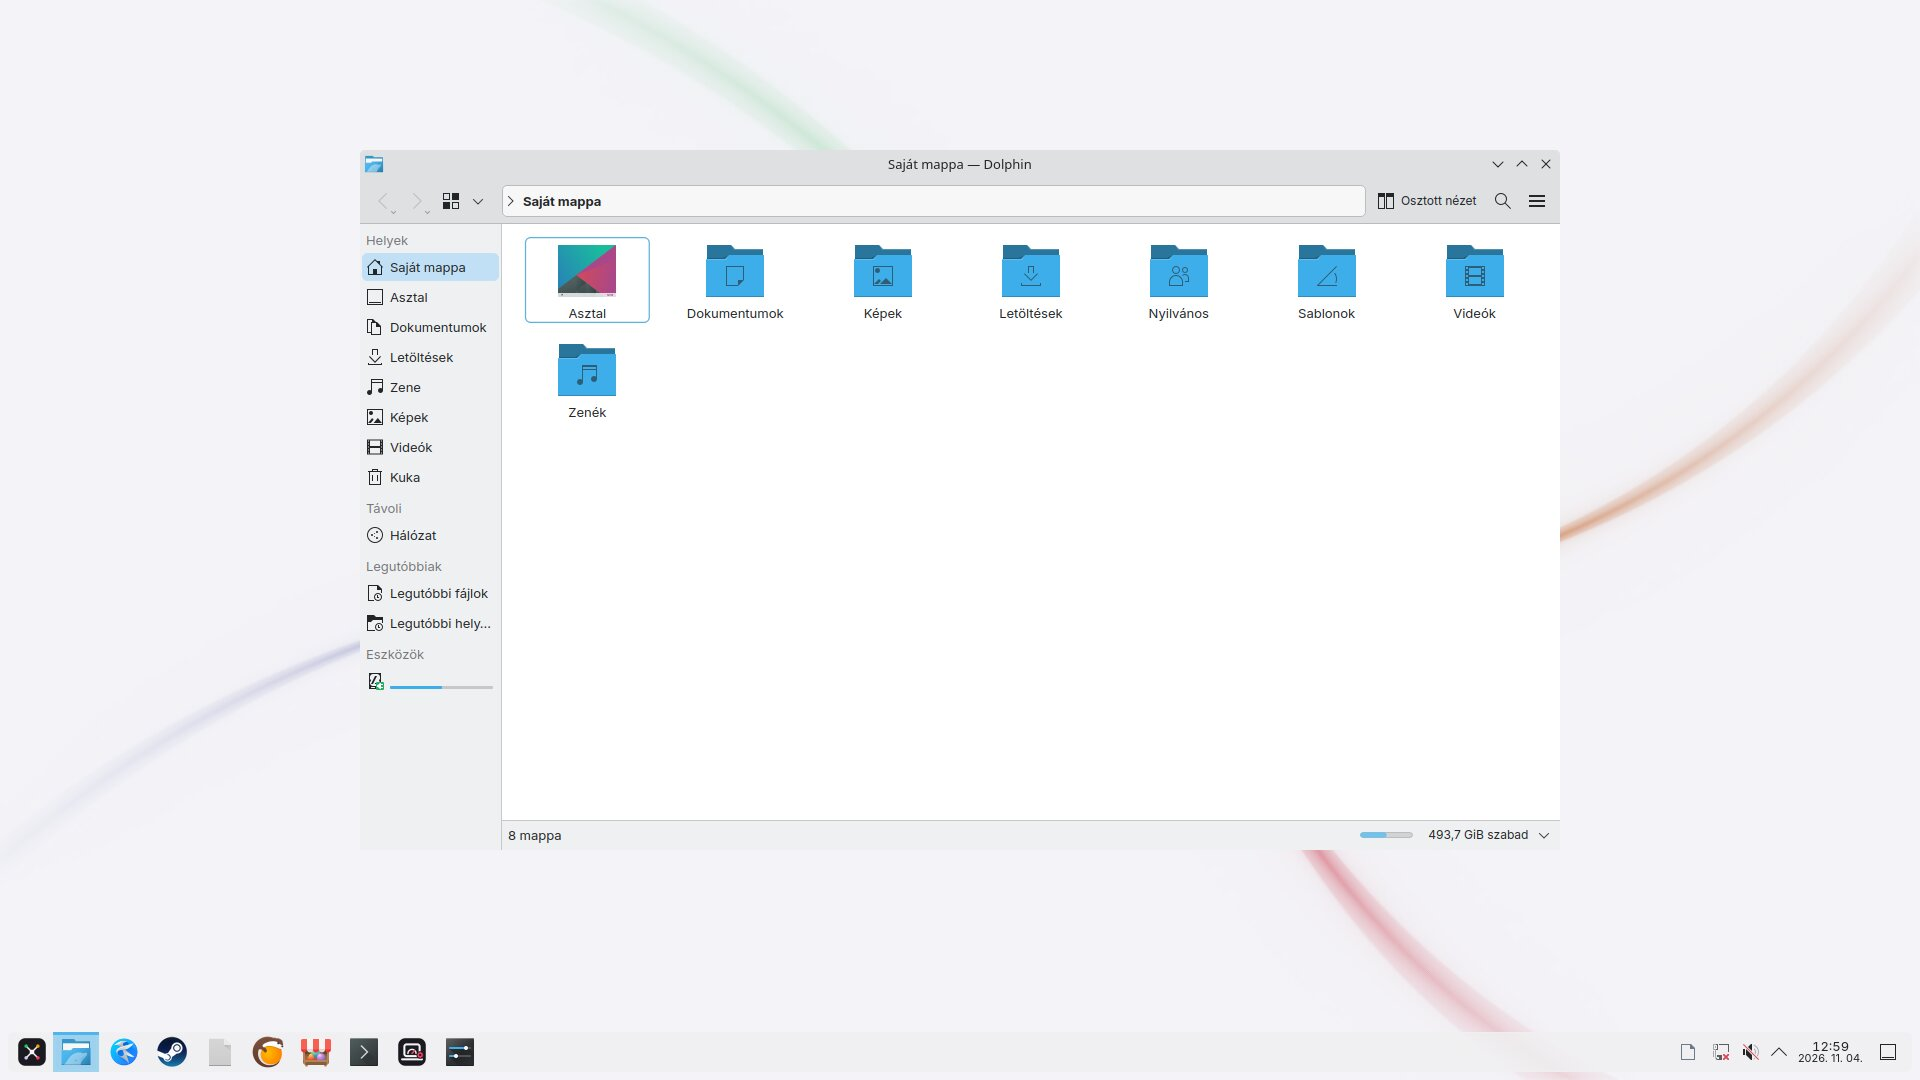
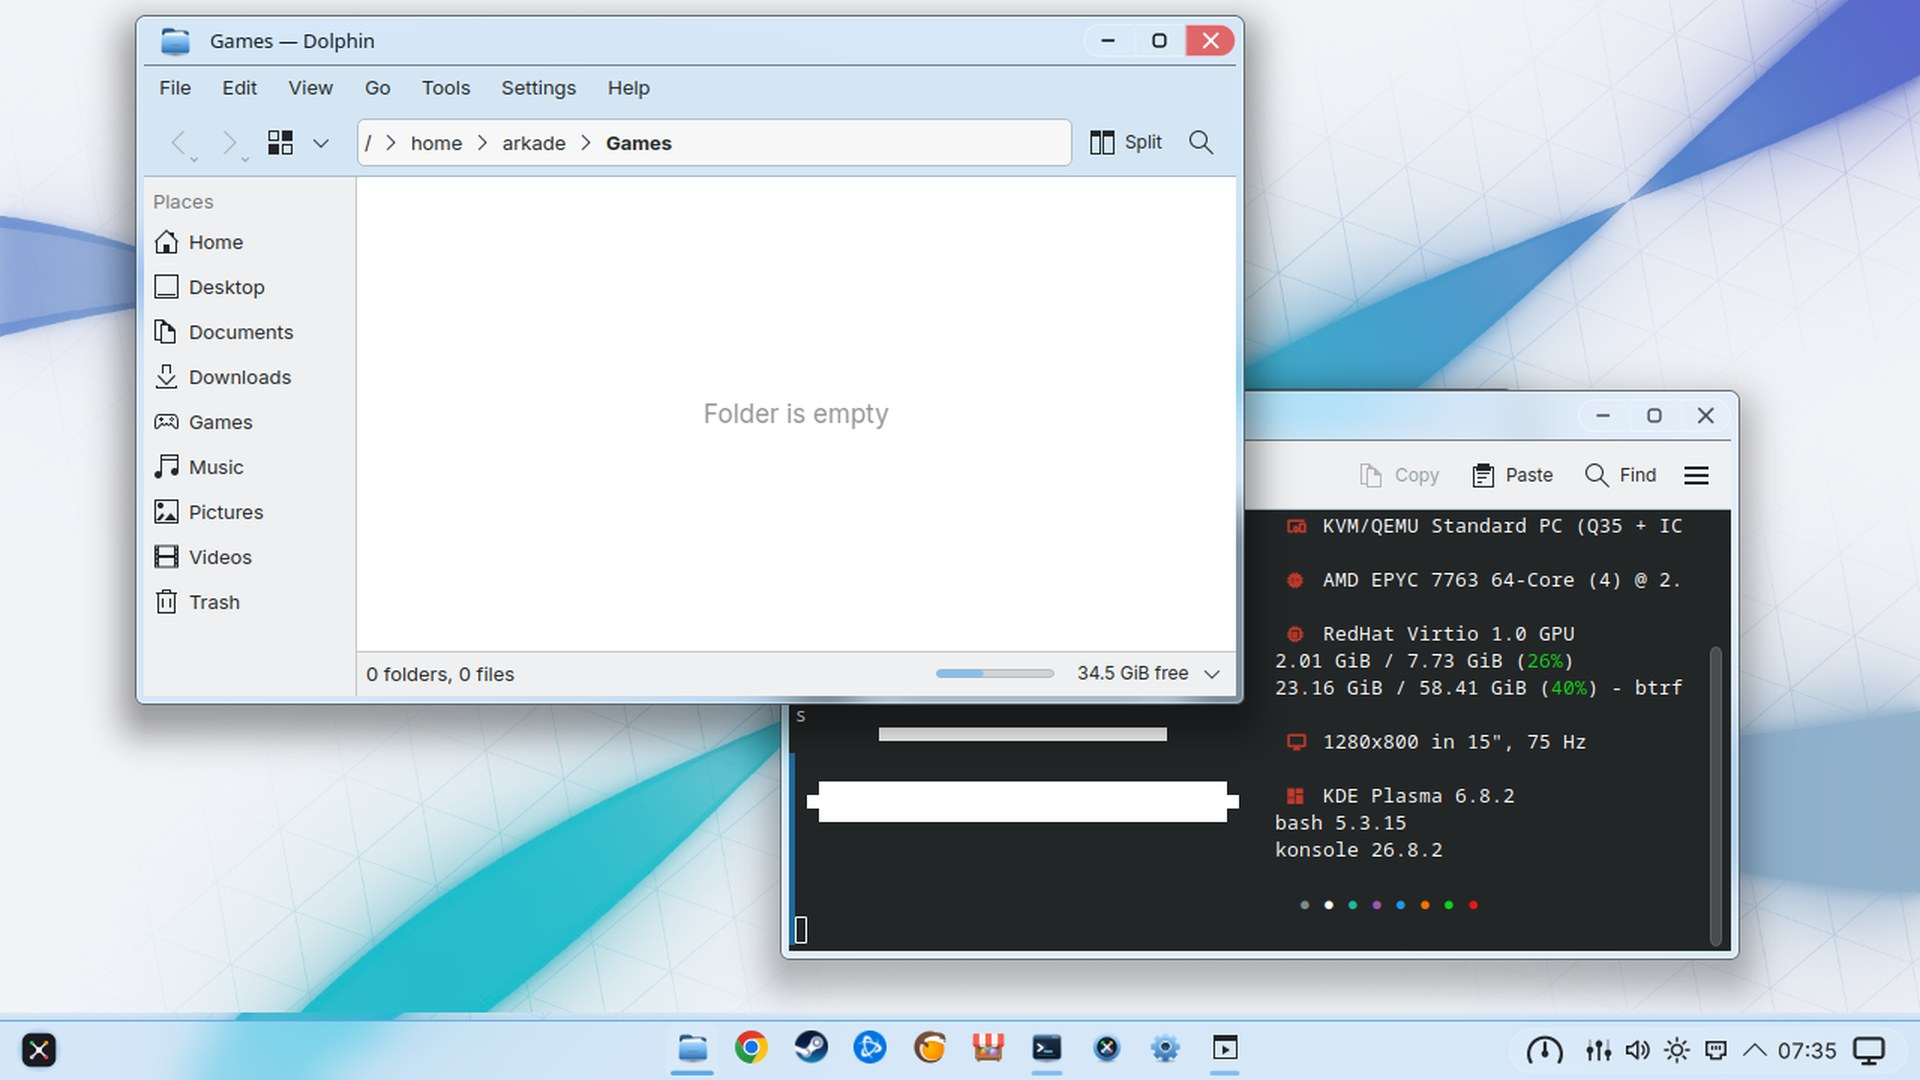
T086: the global themes' previews show the ArkadeOS Glass desktop
Made from the green VM run's glass scenes; the 16:9 cut takes empty
desktop rows from the top and above the taskbar, so title bars and
the taskbar stay.

diff --git a/art/lnf-previews.py b/art/lnf-previews.py
@@ -2,8 +2,10 @@
 beállítások ablakot is rendbe rakhatnád"): System Settings shows them on its
 first page and in Global Theme, so they show the ArkadeOS Glass desktop, not
 the earlier one. Made from the VM test's glass scenes (glass-light.png,
-glass-dark.png, 1280x800): cut to 16:9 keeping the taskbar, then 600x337
-(preview.png) and 1920x1080 (fullscreenpreview.jpg). Needs Pillow (the art
+glass-dark.png, 1280x800): cut to 16:9 by taking empty desktop rows, half
+from the top edge and half just above the taskbar, so the windows' title bars
+and the taskbar stay; then 600x337 (preview.png) and 1920x1080
+(fullscreenpreview.jpg). Needs Pillow (the art
 container). Usage: lnf-previews.py <light.png> <dark.png> <look-and-feel folder>"""
 import os
 import sys
@@ -15,7 +17,11 @@ for look, src in (("light", light), ("dark", dark)):
     im = Image.open(src).convert("RGB")
     w, h = im.size
     cut = h - round(w * 9 / 16)
-    im = im.crop((0, cut, w, h))
+    top, bar = cut // 2, 45  # the glass taskbar is 45 px at this size
+    body = im.crop((0, top, w, h - bar - (cut - top)))
+    im = Image.new("RGB", (w, h - cut))
+    im.paste(body, (0, 0))
+    im.paste(Image.open(src).convert("RGB").crop((0, h - bar, w, h)), (0, body.height))
     out = os.path.join(lnf, f"org.arkadeos.{look}.desktop", "contents", "previews")
     im.resize((600, 337), Image.LANCZOS).save(os.path.join(out, "preview.png"), optimize=True)
     im.resize((1920, 1080), Image.LANCZOS).save(os.path.join(out, "fullscreenpreview.jpg"), quality=88, optimize=True)
